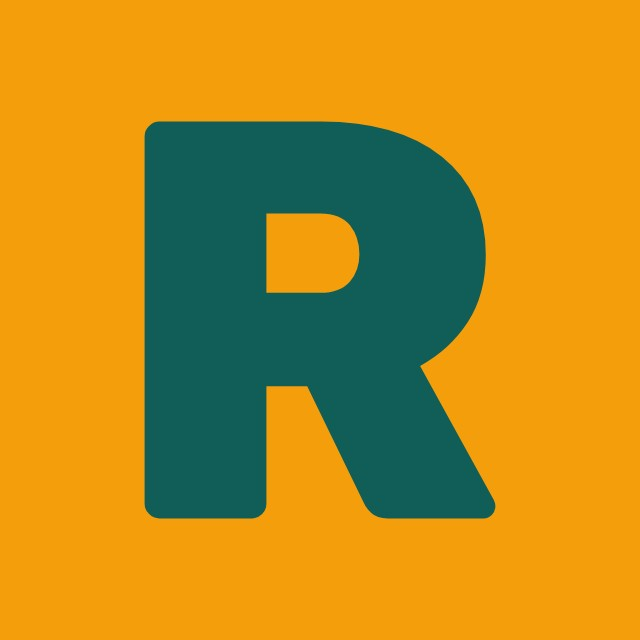
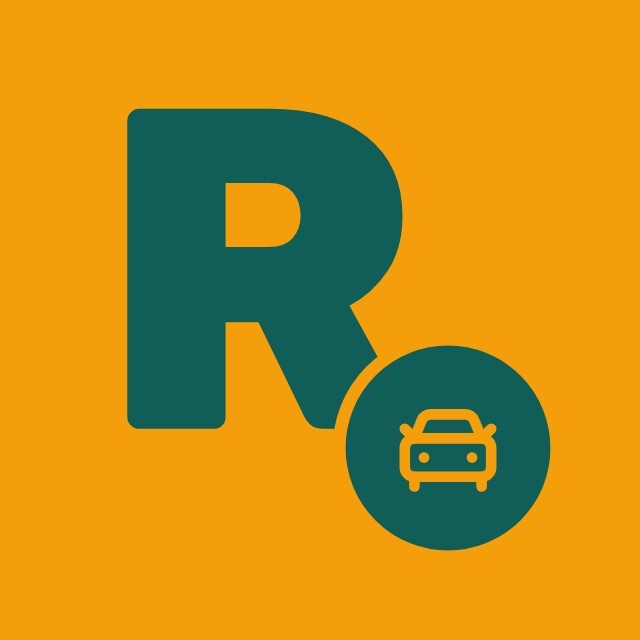
Bots: names «Rida | …» and description pictures (owner decisions 03.10) (#96)

Changed region(s): [[0.1875, 0.1562, 0.875, 0.875]]

diff --git a/apps/backend/src/bots/setup-routes.test.ts b/apps/backend/src/bots/setup-routes.test.ts
@@ -71,10 +71,10 @@ describe('POST /telegram/setup', () => {
     await request;
     const sent = (method: string) => calls.filter((call) => call.url.endsWith(`/${method}`));
     expect(sent('setMyName').map((call) => call.body.name)).toEqual([
-      brand.name,
-      `${brand.name} Haydovchi`,
-      `${brand.name} Jamoa`,
-      `${brand.name} Yordam`,
+      `${brand.name} | yoʻlovchi`,
+      `${brand.name} | haydovchi`,
+      `${brand.name} | admin`,
+      `${brand.name} | yordam`,
     ]);
     const descriptions = sent('setMyDescription').map((call) => String(call.body.description));
     const shorts = sent('setMyShortDescription').map((call) => String(call.body.short_description));

diff --git a/docs/38-brand-kit.md b/docs/38-brand-kit.md
@@ -55,7 +55,7 @@
 | Где | Файлы в архиве |
 |---|---|
 | Логотип | `logo/`: 6 сочетаний, круг, «R», надпись Rida, 2 логотипа с надписью |
-| Боты Telegram | `telegram/`: 3 аватара, 3 картинки описания 640 × 360, экран загрузки (SVG, один контур) |
+| Боты Telegram | `telegram/`: 4 аватара (R и знак роли, у поддержки свои цвета, `lib/avatar.mjs`), 3 картинки описания 640 × 360, экран загрузки (SVG, один контур) |
 | Каналы | `telegram/channels/`: 13 аватаров, 13 картинок к постам (`37`) |
 | Сайт | `web/`: favicon (svg, ico), иконка iPhone, 192, 512, превью ссылки 1200 × 630 |
 | Боты (G34) | `pnpm bot`: картинка приветствия водителя `driver-welcome.png` и JPG-аватары 4 ботов в `brands/rida/landing/bot/`; сайт отдаёт их, бот шлёт картинку по адресу, аватары ставит `/telegram/setup` (`setMyProfilePhoto`) |

diff --git a/docs/goals/OPS-01-cloudflare-domain-bots.md b/docs/goals/OPS-01-cloudflare-domain-bots.md
@@ -33,9 +33,9 @@ Definition of Done:
 |---|---|
 | Зона `myrida.uz` | Active в Cloudflare, NS `jill` и `razvan.ns.cloudflare.com`, DNSSEC выключен |
 | Токен API | `rida-claude`, действует до 31.01.2027, права по списку выше |
-| Бот попутчиков | `@myrida_bot` (Rida) |
-| Бот водителей | `@myrida_haydovchi_bot` (Rida Haydovchi) |
-| Админ-бот | `@myrida_admin_bot` (Rida Admin) |
+| Бот попутчиков | `@myrida_bot` (Rida \| yoʻlovchi) |
+| Бот водителей | `@myrida_haydovchi_bot` (Rida \| haydovchi) |
+| Админ-бот | `@myrida_admin_bot` (Rida \| admin) |
 | Первый админ | Telegram ID владельца |
 
 - Все 3 бота ответили на `getMe`, токен прошёл проверку API.
